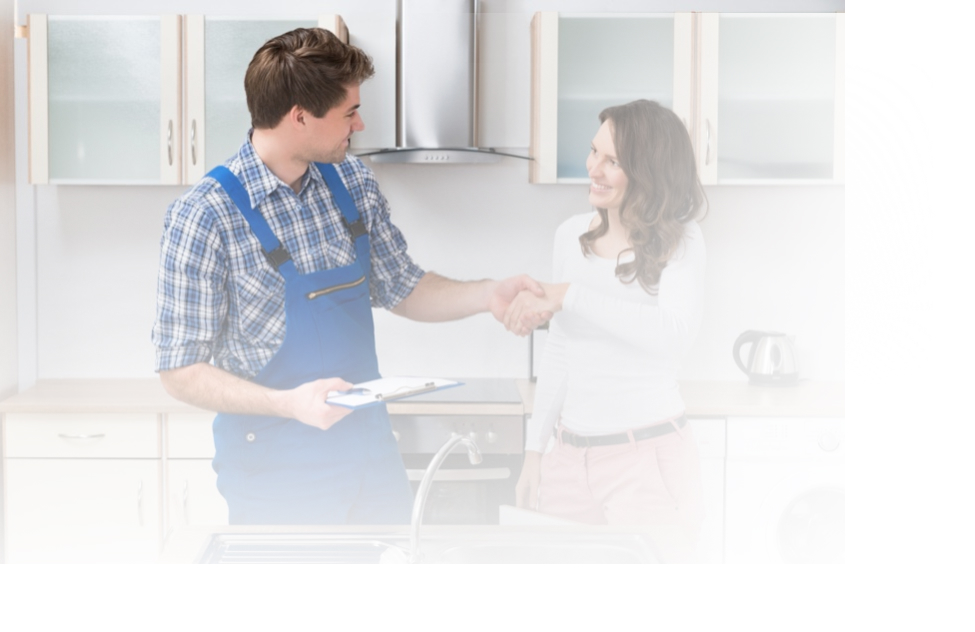
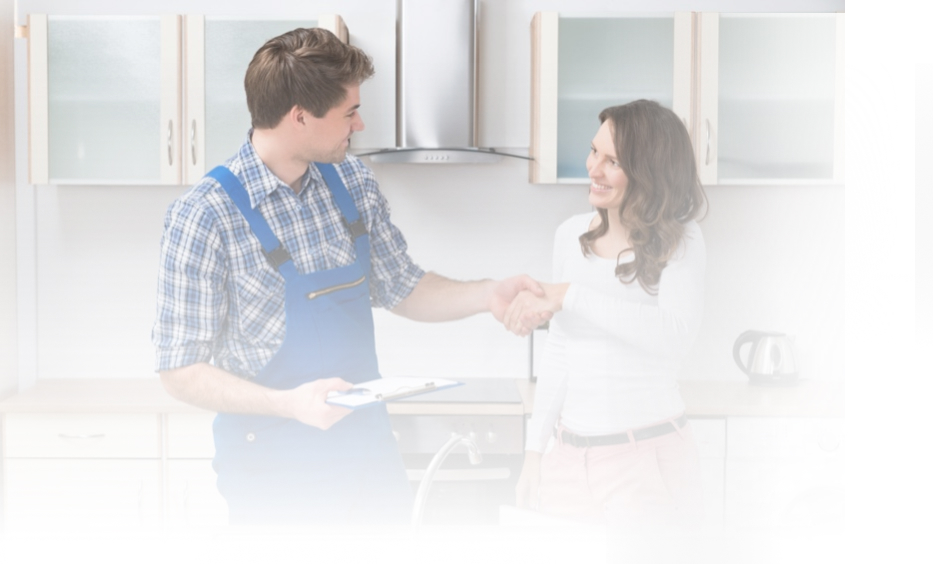
add signup bg

diff --git a/src/components/signup/Signup-form.jsx b/src/components/signup/Signup-form.jsx
@@ -1,7 +1,13 @@
 import React, { useState } from 'react'
+// import { useHistory } from "react-router-dom";
 import {createUser} from './../../api/user-api'
+import { useDispatch, useSelector} from 'react-redux';
+import { setLogin, setUser, currentUser } from '../../store/login-store';
 
 function SignupForm(props) {
+    const dispatch = useDispatch()
+    // let history = useHistory();
+    
     const [newUserMeta, setNewUser] = useState({
         email : "robert@gmail.com",
         password : "password123",
@@ -15,7 +21,14 @@ function SignupForm(props) {
 
     const initCreateUser = (evt) => {
         evt.preventDefault();
-        createUser(newUserMeta)
+        const res = createUser(newUserMeta)
+        if(res.status === 201){
+            dispatch(setUser({
+                ...currentUser,
+                username: newUserMeta.firstName
+            }))
+
+        }
     }
 
     const handleChange = async(evt) =>{

diff --git a/src/styles/pages/signup.scss b/src/styles/pages/signup.scss
@@ -5,6 +5,9 @@
         display: flex;
         flex-direction: row;
         padding: 0 5%;
+        background-image: url("./../images/signup-bg.jpg");
+        background-repeat: no-repeat;
+        background-size: 65%;
     }
     
     .signupInfo {
@@ -16,7 +19,8 @@
         align-items: center;
         text-align: left;
         /* background-image: url(../images/image\ 6.png); */
-        background-repeat: no-repeat;
+        
+        
     }
     
     .signupInfo-headertext h1 {

diff --git a/src/styles/care.css b/src/styles/care.css
@@ -58,6 +58,9 @@
   display: flex;
   flex-direction: row;
   padding: 0 5%;
+  background-image: url("./../images/signup-bg.jpg");
+  background-repeat: no-repeat;
+  background-size: 65%;
 }
 #CareIOSignup .signupInfo {
   padding: 100px 0;
@@ -67,7 +70,6 @@
   align-items: center;
   text-align: left;
   /* background-image: url(../images/image\ 6.png); */
-  background-repeat: no-repeat;
 }
 #CareIOSignup .signupInfo-headertext h1 {
   font-size: 3em;

diff --git a/src/api/user-api.js b/src/api/user-api.js
@@ -63,7 +63,8 @@ export const createUser = async (userObj, cb) => {
             };
         const res = await axios(options);
         if(cb) cb()
-        return res.data
+        console.log({res})
+        return res
     } catch(e){
         console.error(`[careio::error] ${e.message}`)
         return {}
